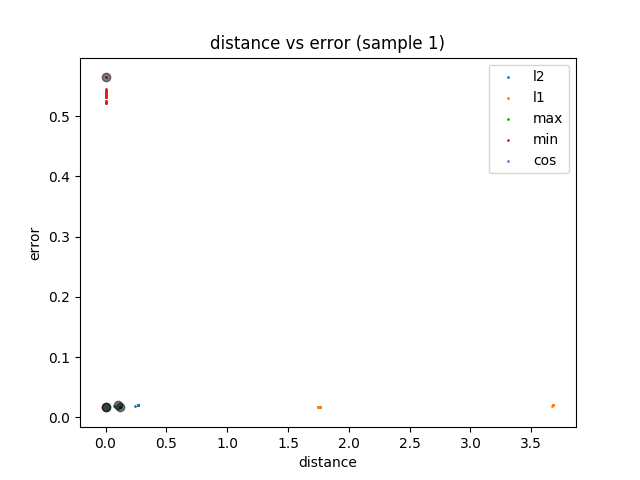
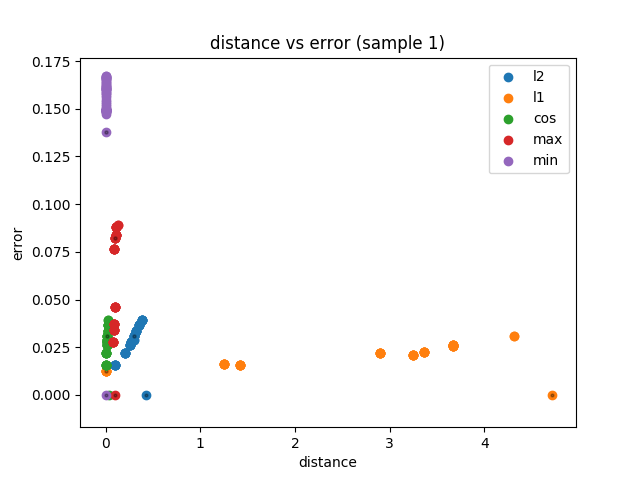
t

diff --git a/RNN/utils/association_evaluation.py b/RNN/utils/association_evaluation.py
@@ -506,8 +506,8 @@ def plot_best_distance_function(model, data, data_iterator, n=50):
 			for k in range(n):
 				errors[i,k] = metrics.__pose_seq_error(preds[k,:,:-model.label_dim],data[idx[j],:,:-model.label_dim])
 				dists[i,k] = metrics.__distance__(ls[w_i[k]], z_true, mode=i)
-			error[-1] = 0
-			dist[-1] = metrics.__distance__(ls[w_i[0]], z_ref, mode=i)
+			errors[i,-1] = 0
+			dists[i,-1] = metrics.__distance__(ls[w_i[0]], z_ref, mode=i)
 			plt.scatter(dists[i], errors[i], label=dist_name)
 			plt.scatter(dists[i,:1], errors[i,:1], c='black', alpha='0.3', s=5)
 			plt.scatter(dists[i,-1:], errors[i,-1:], c='black', alpha='0.3', s=4)
